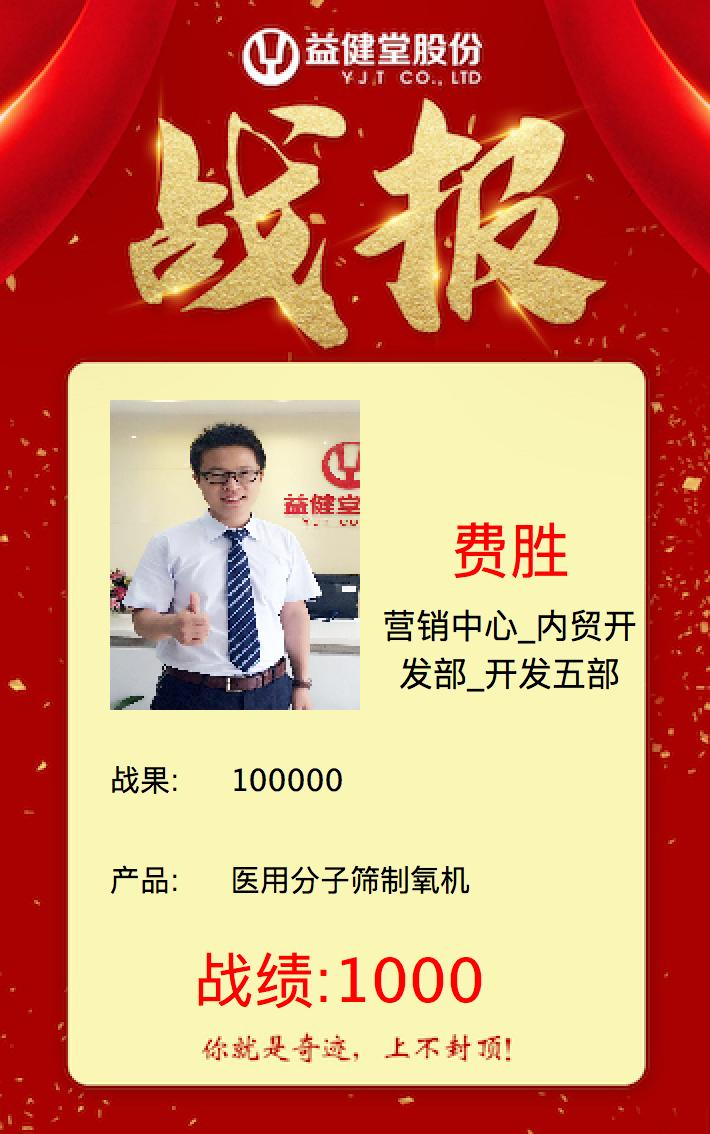
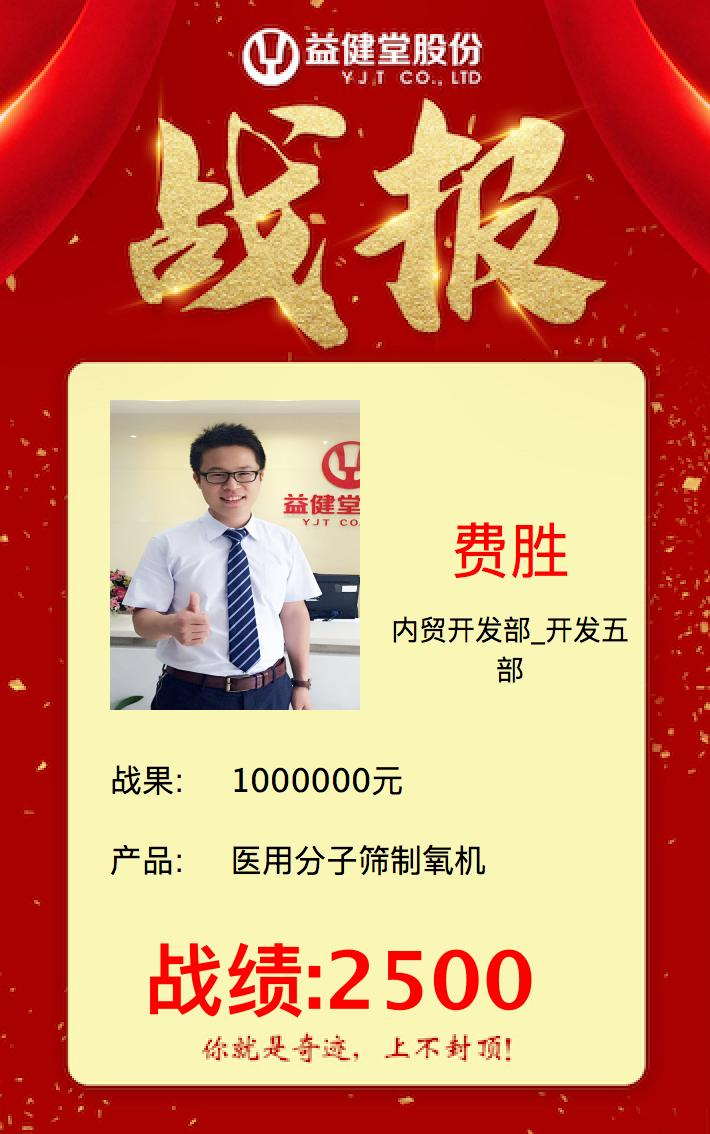
优化UI显示

diff --git a/src/ui/UI_Mian.py b/src/ui/UI_Mian.py
@@ -100,9 +100,11 @@ class UI_Mian(QMainWindow):
         self.userIconlable = QLabel(self)
         self.userIconlable.setGeometry(55,200,125,155)
         images = ':img/3.jpg'
-        pix =QPixmap(images).scaled(self.userIconlable.width(),self.userIconlable.height())
-        self.userIconlable.setAlignment(Qt.AlignCenter)
+        # pix =QPixmap(images).scaled(self.userIconlable.width(),self.userIconlable.height())
+        pix = QPixmap(images)
+        # self.userIconlable.setAlignment(Qt.AlignCenter)
         self.userIconlable.setPixmap(pix)
+        self.userIconlable.setScaledContents(True)
 
         # 员工姓名
         self.userNameLable = QLabel(self)
@@ -117,29 +119,29 @@ class UI_Mian(QMainWindow):
         self.depLable.setText('xxxxx')
         self.depLable.setGeometry(190,300, 130, 50)
         self.depLable.setAlignment(Qt.AlignCenter)
-        self.depLable.setStyleSheet("font:17pt '黑体';color:black;")
+        self.depLable.setStyleSheet("font:14pt '微软雅黑';color:black;")
         self.depLable.setWordWrap(True)
 
         label1 = QLabel(self)
         label1.setGeometry(55,380,50,20)
-        label1.setStyleSheet("font:15pt '黑体';color:black;")
+        label1.setStyleSheet("font:16pt '微软雅黑';color:black;")
         label1.setText('战果:')
 
         self.priceLabel = QLabel(self)
         self.priceLabel.setText('xxxxx')
-        self.priceLabel.setStyleSheet("font:15pt '黑体';color:black;")
+        self.priceLabel.setStyleSheet("font:16pt '微软雅黑';color:black;")
         self.priceLabel.setGeometry(115,380,150,20)
         self.priceLabel.setWordWrap(True)
 
         label2 = QLabel(self)
-        label2.setGeometry(55, 430, 50, 20)
-        label2.setStyleSheet("font:15pt '黑体';color:black;")
+        label2.setGeometry(55, 420, 50, 20)
+        label2.setStyleSheet("font:16pt '微软雅黑';color:black;")
         label2.setText('产品:')
 
         self.productLabel = QLabel(self)
         self.productLabel.setText('xxxxx')
-        self.productLabel.setStyleSheet("font:15pt '黑体';color:black;")
-        self.productLabel.setGeometry(115,430,200,20)
+        self.productLabel.setStyleSheet("font:16pt '微软雅黑';color:black;")
+        self.productLabel.setGeometry(115,420,200,20)
         self.productLabel.setWordWrap(True)
 
        # label3 = QLabel(self)
@@ -155,7 +157,9 @@ class UI_Mian(QMainWindow):
 
         self.totalPrice = QLabel(self)
         self.totalPrice.setText('战绩:xxxxx')
-        self.totalPrice.setStyleSheet("font:30pt '黑体';color:red;")
+
+        self.totalPrice.setFont(QFont("Microsoft YaHei",40,75))
+        self.totalPrice.setStyleSheet("color:red;")
         self.totalPrice.setAlignment(Qt.AlignCenter)
         self.totalPrice.setGeometry(55,470,230,40)
         self.totalPrice.setWordWrap(True)
@@ -187,8 +191,7 @@ class UI_Mian(QMainWindow):
 
         try:
             if info['image']:
-                self.userIconlable.setPixmap(
-                    QPixmap(info['image']).scaled(self.userIconlable.width(), self.userIconlable.height()))
+                self.userIconlable.setPixmap(QPixmap(info['image']))
         except KeyError as e:
             Tools.showAlert('没有找到此员工图片')
             return
